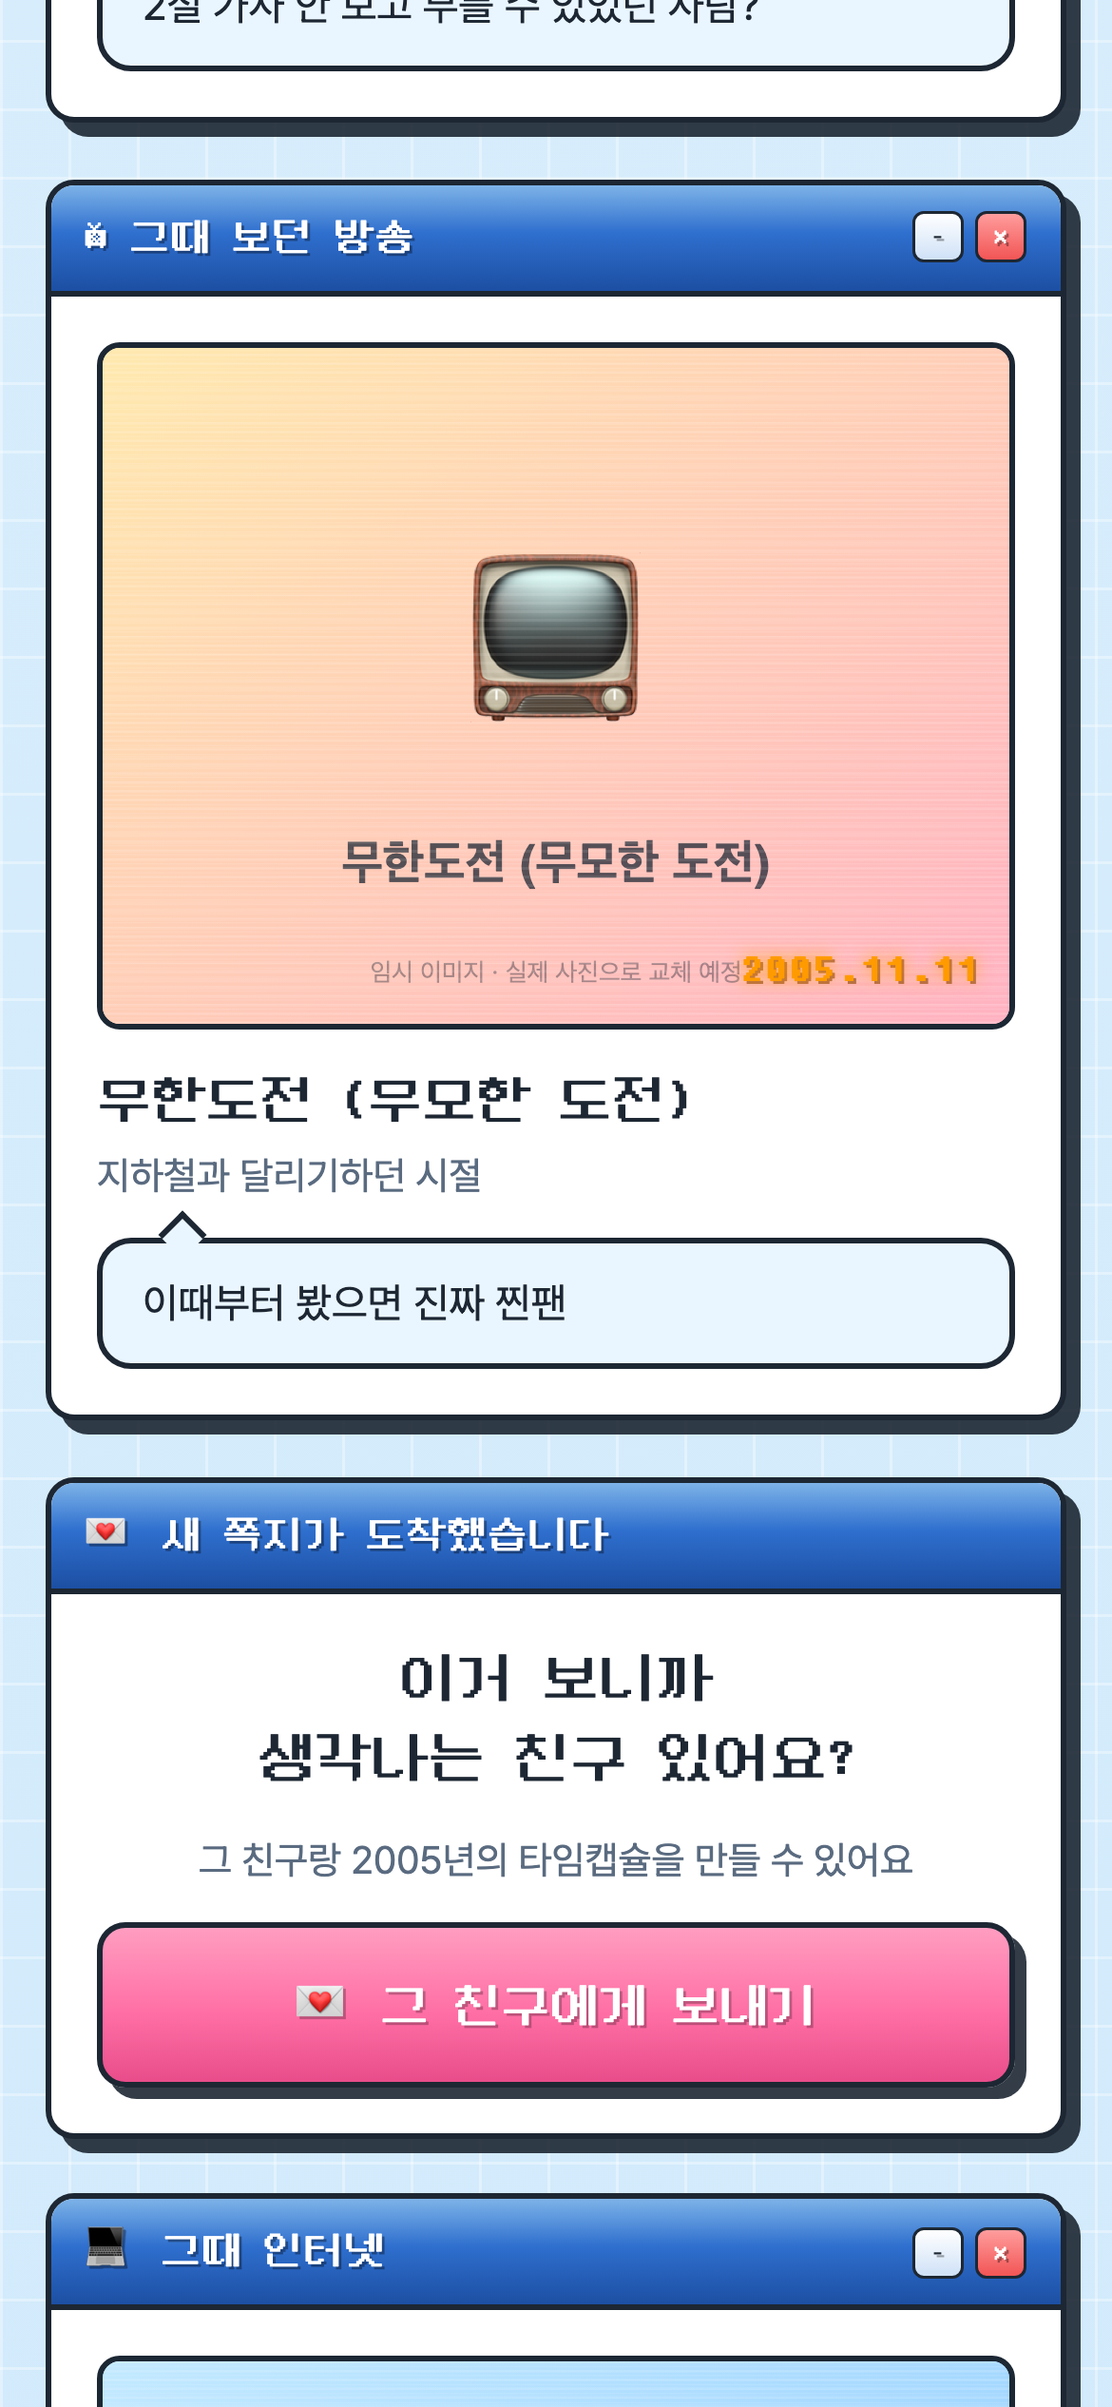
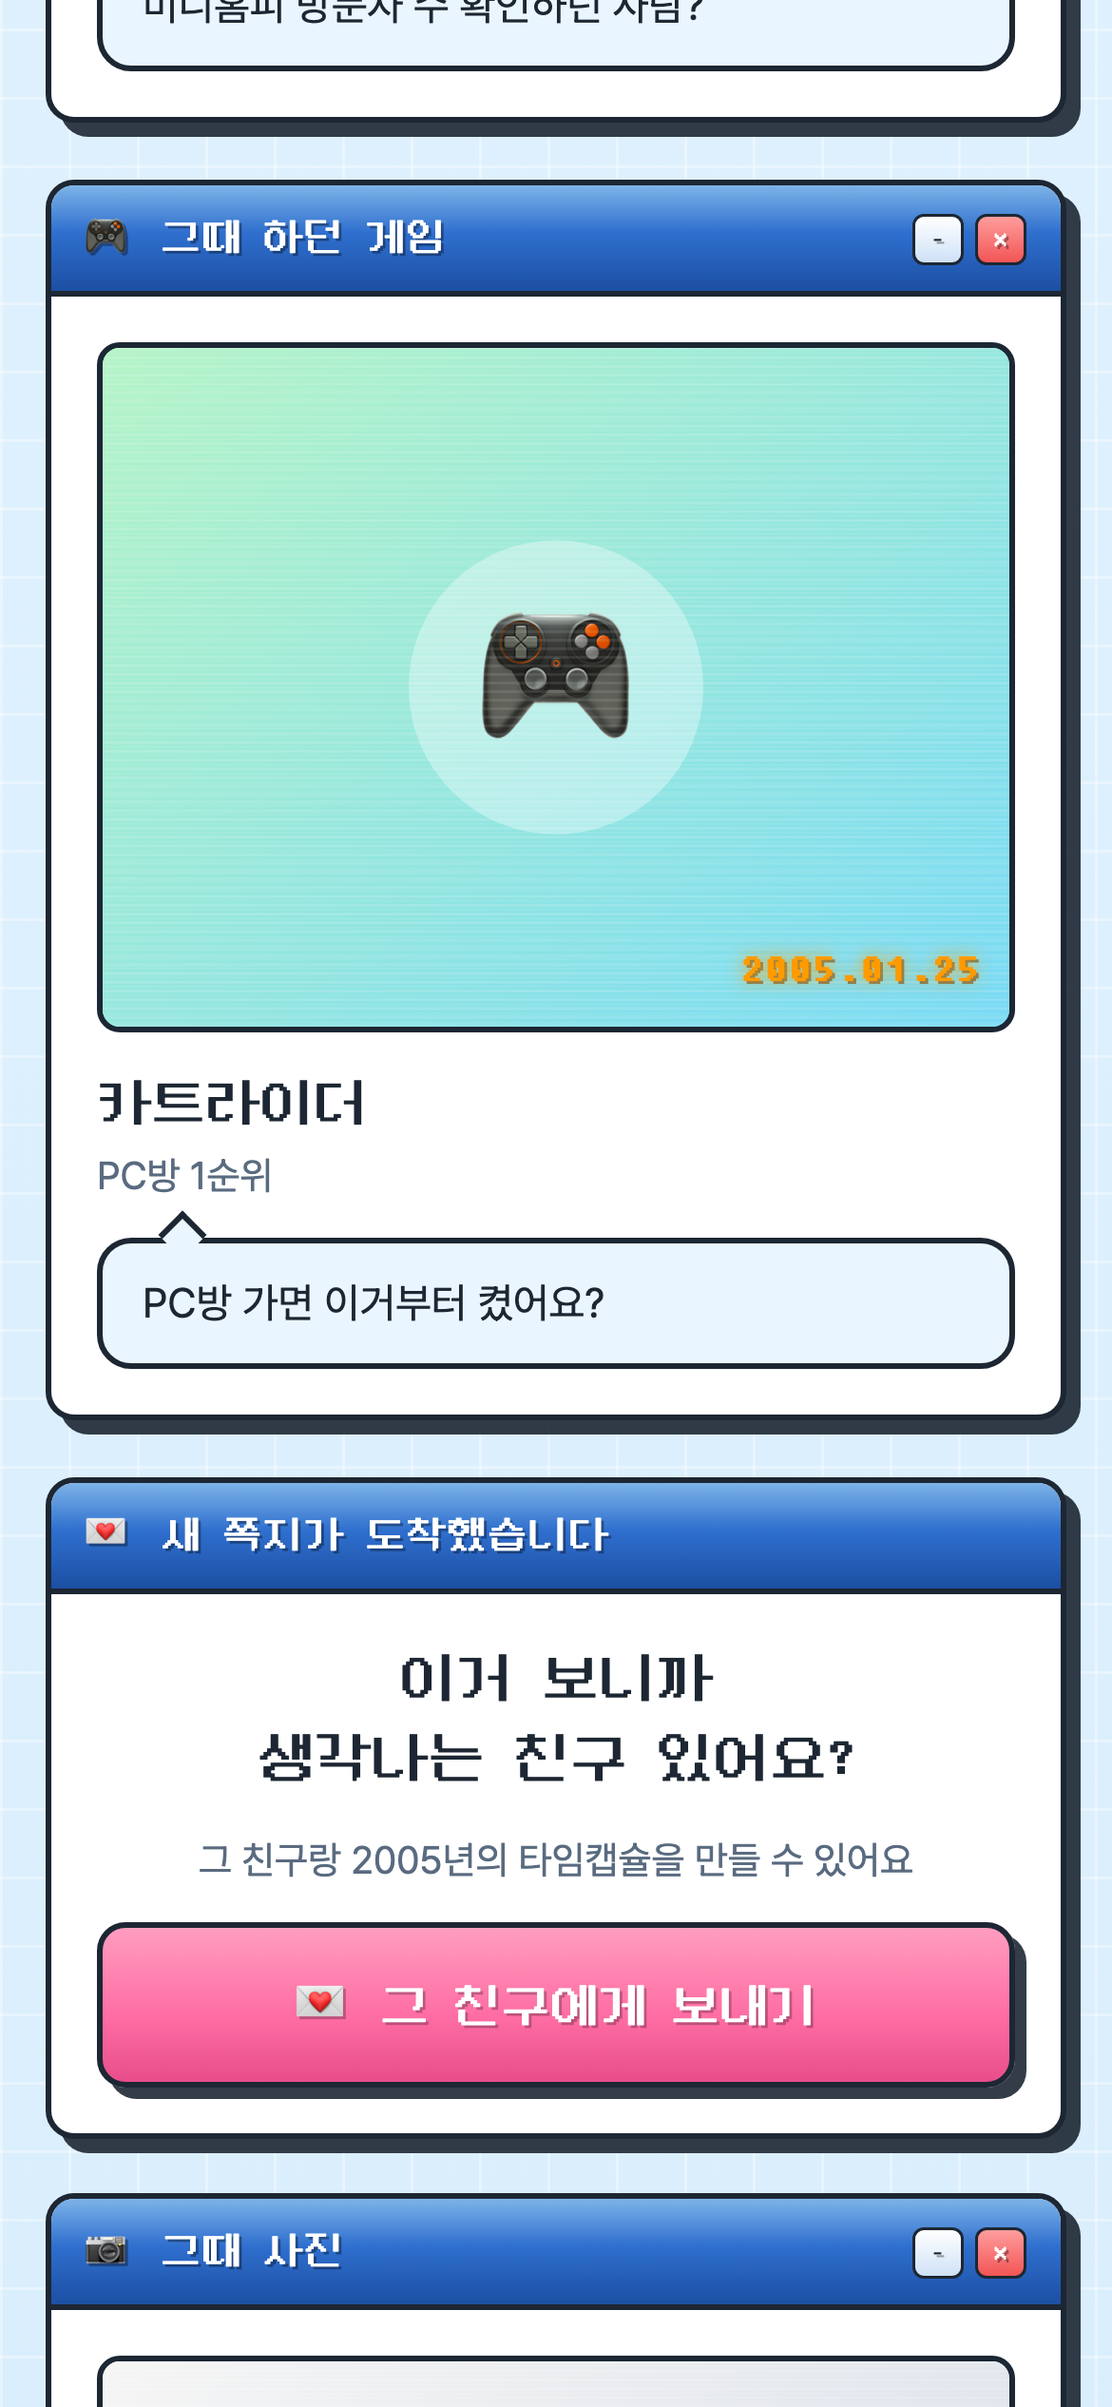
UX 1차 검수 이슈 수정 (M-1~M-5, L-2) + 2차 테스트 리포트
- M-1: 조사 처리 (혜빈이가/수진이가) — lib/josa.ts
- M-2: 홈 placeholder "예: 1992" + 대비 조정
- M-3: 초대 랜딩 줄바꿈 재배치 (orphan 제거)
- M-4: placeholder 이미지 제목 중복·개발 문구 제거
- M-5: 첫 공유 CTA를 5번째 카드 뒤로 이동
- L-2: 비활성 CTA grayscale + 그림자 축소
- 테스트 스크립트 보강, 스크린샷 전체 재캡처, 리포트 Resolved 갱신
- H-1/L-1/L-3/L-4는 의도적으로 유지 (Known Issue)

Claude-Session: https://claude.ai/code/session_01HtA1DoNRxHjgu4ARWd6viU

diff --git a/lib/josa.ts b/lib/josa.ts
@@ -1,8 +1,12 @@
-/** 이름 + 이/가 조사를 받침 유무에 따라 붙인다 */
+/**
+ * 이름 + 주격 조사를 받침 유무에 따라 붙인다.
+ * 받침 있는 이름은 호칭 접미사 '이'까지 포함해 자연스럽게 처리:
+ * 혜빈 → 혜빈이가, 수진 → 수진이가, 민수 → 민수가, 지우 → 지우가
+ */
 export function nameIga(name: string): string {
   const last = name.charCodeAt(name.length - 1);
   if (last >= 0xac00 && last <= 0xd7a3) {
-    return (last - 0xac00) % 28 > 0 ? `${name}이` : `${name}가`;
+    return (last - 0xac00) % 28 > 0 ? `${name}이가` : `${name}가`;
   }
   return `${name}이(가)`;
 }

diff --git a/app/year/[year]/page.tsx b/app/year/[year]/page.tsx
@@ -56,12 +56,13 @@ export default function YearPage() {
 
   const memories = getMemoriesForYear(year);
   const info = getYearInfo(year);
-  const midpoint = Math.ceil(memories.length / 2);
+  // 강한 추억 4~5개를 경험한 직후 첫 공유 CTA 노출 (피드가 짧으면 중간 지점)
+  const firstCtaAfter = Math.min(5, Math.ceil(memories.length / 2));
 
   const feed: ReactNode[] = [];
   memories.forEach((item, i) => {
     feed.push(<MemoryCard key={item.id} item={item} index={i} />);
-    if (i === midpoint - 1) {
+    if (i === firstCtaAfter - 1) {
       feed.push(<FriendCTA key="mid-cta" year={year} />);
     }
   });

diff --git a/app/capsule/page.tsx b/app/capsule/page.tsx
@@ -63,10 +63,10 @@ function CapsuleInviteInner() {
       <main className="page flex flex-col justify-center gap-5">
         <header className="text-center pop-in">
           <p className="badge">💌 새 쪽지 1통</p>
-          <h1 className="font-pixel text-[24px] mt-3 leading-snug">
-            {nameIga(invite.from)}
+          <h1 className="font-pixel text-[24px] mt-3 leading-snug break-keep">
+            {nameIga(invite.from)} {invite.year}년에서
             <br />
-            {invite.year}년에서 타임캡슐을 보냈어요
+            타임캡슐을 보냈어요
           </h1>
         </header>
 

diff --git a/app/globals.css b/app/globals.css
@@ -151,8 +151,16 @@ body {
 }
 
 .pixel-btn:disabled {
-  opacity: 0.45;
+  opacity: 0.55;
+  filter: grayscale(0.85);
+  box-shadow: 2px 2px 0 rgba(29, 39, 51, 0.25);
+  cursor: default;
   pointer-events: none;
+}
+
+.pixel-input::placeholder {
+  color: #a8b8c9;
+  opacity: 0.7;
 }
 
 /* ── 입력 필드 ─────────────────────────────────── */

diff --git a/app/page.tsx b/app/page.tsx
@@ -68,7 +68,7 @@ function HomeInner() {
             className="pixel-input text-center font-pixel !text-[28px] tracking-[0.2em]"
             inputMode="numeric"
             pattern="[0-9]*"
-            placeholder="1992"
+            placeholder="예: 1992"
             maxLength={4}
             value={value}
             onChange={(e) => {

diff --git a/UX_TEST_REPORT.md b/UX_TEST_REPORT.md
@@ -1,93 +1,84 @@
-# 추억.zip — UX 자동 테스트 리포트 (1차)
+# 추억.zip — UX 자동 테스트 리포트
 
-> 이 리포트는 Claude가 Playwright로 배포된 사이트를 실제 사용자처럼 조작하며 작성했습니다.
-> 스크린샷은 `screenshots/ux-test/`에 있으며, 이 단계에서는 **어떤 코드도 수정하지 않았습니다.**
-> 재실행 방법: `node scripts/ux-test.mjs`
+> Claude가 Playwright로 배포된 사이트를 실제 사용자처럼 조작하며 작성한 리포트.
+> 스크린샷: `screenshots/ux-test/` · 재실행: `node scripts/ux-test.mjs`
+>
+> **2차 (2026-08-20, 최신)**: 1차에서 발견된 M-1~M-5, L-2 수정 후 재테스트 — **자동 체크 35/35 전부 통과**
+> 1차 (2026-08-20): 최초 검수 — 33개 중 31개 통과, 이슈 10건 기록
 
 ## Test environment
 
 | 항목 | 값 |
 |---|---|
 | URL | https://2000-steel.vercel.app (프로덕션 배포본) |
-| 테스트 일시 | 2026-08-20 |
+| 최신 테스트 일시 | 2026-08-20 (수정 반영 후 2차) |
 | 자동화 도구 | Playwright 1.62.1 (headless Chromium) |
 | 디바이스 프로필 | iPhone 13 에뮬레이션 (모바일 UA, 터치, DPR 3) |
 | 기본 viewport | 390 × 844 |
-| 추가 viewport | 375×667 / 393×852 / 430×932 (레이아웃 오버플로 검사만) |
+| 추가 viewport | 375×667 / 393×852 / 430×932 (레이아웃 오버플로 검사) |
 
-제약: headless Chromium은 실제 iOS Safari(WebKit)가 아니며 `navigator.share`(네이티브 공유 시트)를 지원하지 않음. 공유는 클립보드 폴백 경로로 검증했고, 네이티브 공유 시트·실제 카카오톡 인앱 동작은 실기기 확인이 필요함.
+제약: headless Chromium은 실제 iOS Safari(WebKit)가 아니며 `navigator.share`(네이티브 공유 시트)를 지원하지 않음. 공유는 클립보드 폴백 경로로 검증. 네이티브 공유 시트·카카오톡 인앱 동작은 실기기 확인 필요.
 
 ## Tested flow
 
 1. 홈 접속 → 출생연도 `1992` 입력 → CTA 클릭
 2. 타임라인(1992년생) → 2005년 선택
-3. 2005 추억 피드 스크롤 (카테고리 연속 여부·오버플로 검사)
+3. 2005 추억 피드 스크롤 (카테고리 연속·첫 CTA 위치·오버플로 검사)
 4. 친구 공유 CTA → 타임캡슐 작성 진입
-5. 사용자 A(혜빈): 이름 + 5문항 자연어 답변 → 초대 링크 생성 → 공유(클립보드 폴백)
-6. **새 브라우저 컨텍스트**(localStorage 격리)에서 사용자 B(수진)가 초대 링크 진입 → A 답변 비노출 확인 → 5문항 답변 → 제출
-7. 결과 페이지 검증 (제목, 답변 병합, 재공유 CTA)
-8. `/?born=1992` 직접 진입 → 타임라인 자동 이동
-9. localStorage 유지(새로고침) / 삭제 후 신규 사용자 상태
-10. 전 과정 console error / page error / network 실패 수집
+5. 사용자 A(혜빈): 이름 + 5문항 답변 → 초대 링크 생성 → 공유(클립보드 폴백)
+6. **새 브라우저 컨텍스트**(localStorage 격리)에서 B(수진)가 초대 링크 진입 → A 답변 비노출 확인 → 5문항 답변 → 제출
+7. 결과 페이지 검증 (제목, 조사, 답변 병합, 재공유 CTA)
+8. `/?born=1992` 직접 진입 / localStorage 유지·삭제 / console·network 오류 수집
 
-## Passed (자동 체크 33개 중 31개 통과)
+## Passed (2차 — 자동 체크 35/35)
 
-- 홈 로딩·핵심 질문 노출·가로 오버플로 없음
-- 입력 전 CTA 비활성 → 4자리 입력 시 활성 → 타임라인 이동
-- 1992년생 타임라인: 2003~2010 표시, 나이 병기, 준비중/활성 구분, 2005 "★ 추천" 배지
-- 2005 피드: 나이 계산 정확(13살), 카드 16장에서 **동일 카테고리 연속 등장 0건**, 가로 오버플로 없음
-- 친구 공유 CTA 노출(피드 중간 + 하단)
-- 캡슐 A: 5문항 전부 입력 시에만 제출 활성, 공유 준비 화면, 링크 복사 폴백 + "복사 완료" 피드백
-- 캡슐 B: 초대 랜딩 문구, **A 답변 제출 전 비노출 확인**, 숨김 안내 문구
-- 결과: "혜빈 × 수진의 2005" 제목, A/B 답변 5쌍 모두 정상 병합, 완성 메시지, 재공유 CTA
-- `/?born=1992` 직접 진입 → 타임라인 자동 이동 (localStorage 충돌 없음)
-- localStorage: 새로고침 후 1992 유지 / 삭제 후 신규 상태 정상
-- 4개 viewport 모두 가로 오버플로 없음
+- 홈: 로딩·핵심 질문·오버플로 없음 · **placeholder "예: 1992" 확인** · 입력 전 CTA 비활성 → 4자리 입력 시 활성
+- 타임라인: 2003~2010 + 나이 병기, 준비중 구분, 2005 ★추천 배지
+- 피드: 13살 계산 정확, 동일 카테고리 연속 0건, **첫 공유 CTA가 카드 5개 뒤 등장**, 오버플로 없음
+- 캡슐 A: 전부 입력 시에만 제출 활성, 링크 복사 폴백 + 복사 완료 피드백 (초대 URL 360자)
+- 캡슐 B: 초대 랜딩 문구, A 답변 제출 전 비노출, 숨김 안내
+- 결과: "혜빈 × 수진의 2005" 제목, **조사 "혜빈이가/수진이가" 자연스러움**, 답변 5쌍 병합, 완성 메시지, 재공유 CTA
+- `/?born=1992` 자동 이동, localStorage 유지/삭제 정상
+- 4개 viewport 모두 가로 오버플로 없음, console/page error 0건
 
-자동 체크 실패 2건 중 1건("당시 나이 문구")은 테스트 스크립트의 로케이터 문제였고 스크린샷으로 정상 확인됨. 나머지 1건은 아래 M-1(조사 처리)로 이어짐.
+## Issue status
 
-## UX observations (수정하지 않고 기록만 함)
+### Resolved (2차에서 수정 및 재검증 완료)
 
-### High
+- ✅ **M-1 Resolved — 한국어 조사.** `nameIga()` 수정: 받침 있는 이름은 "혜빈이가/수진이가", 없는 이름은 "민수가/지우가". 결과 페이지·초대 랜딩 모두 반영, 자동 체크 통과. → `08-capsule-result.png`, `06-capsule-invite.png`
+- ✅ **M-2 Resolved — 홈 placeholder.** "1992" → **"예: 1992"** + placeholder 색 대비를 낮춰 실제 입력값으로 오인하지 않도록 수정. → `01-home.png`
+- ✅ **M-3 Resolved — 초대 랜딩 줄바꿈.** "혜빈이가 2005년에서 / 타임캡슐을 보냈어요" 2줄 구조로 재배치 + `break-keep`. 390/375/393/430 모두 orphan 없음. → `06-capsule-invite.png`
+- ✅ **M-4 Resolved — placeholder 이미지 겹침.** 임시 이미지에서 제목 중복 텍스트와 "임시 이미지 · 교체 예정" 개발 문구 제거. 카테고리 아이콘 + 그라데이션 + 스캔라인 + 날짜 스탬프만 유지. → `05-share-cta.png`
+- ✅ **M-5 Resolved — 첫 공유 CTA 위치.** 8번째 카드 뒤 → **5번째 카드 뒤**로 앞당김 (강한 추억 4~5개 경험 직후). 피드 마지막 CTA는 유지 (중간+마지막 2개 구조). → `05-share-cta.png`
+- ✅ **L-2 Resolved — CTA 비활성 상태.** 비활성 시 grayscale + 그림자 축소 + cursor 기본값으로 "눌리지 않는 느낌" 강화. 활성 시 기존 핑크+하드섀도 그대로.
 
-- **H-1. A(캡슐을 만든 사람)는 결과를 자동으로 볼 수 없음.** 타임캡슐이 URL 인코딩 기반이라 B가 완성한 결과 링크를 A에게 다시 보내줘야만 A가 결과를 봄. 결과 화면에 "혜빈님에게도 결과를 보내주세요" 안내는 있으나, B가 재공유하지 않으면 A의 경험은 "보내고 끝"으로 끊김. 바이럴 루프의 핵심 구간이므로 기획 검토 필요. (구조적 이슈 — 서버 저장 전환 시 해결 가능)
+### Known Issue — intentionally deferred
 
-### Medium
-
-- **M-1. 한국어 조사 처리 어색.** 결과 페이지 라벨이 "혜빈**이** 기억하는 첫 만남", "수진**이** 기억하는 우리의 노래"로 표시됨. 자연스러운 표현은 "혜빈**이가**/수진**이가**"임 (받침 있는 이름에 '이'만 붙고 주격조사 '가'가 빠짐). `lib/josa.ts`의 `nameIga()` 로직. → `08-capsule-result.png`
-- **M-2. 홈 입력창의 placeholder "1992"가 실제 입력된 값처럼 보임.** 큰 픽셀 폰트의 회색 1992가 이미 입력된 것으로 오인될 수 있어, 첫 방문자가 CTA만 누르고 반응이 없다고 느낄 가능성. → `01-home.png`
-- **M-3. 초대 랜딩 제목 줄바꿈 어색.** "혜빈이 / 2005년에서 타임캡슐을 보냈어 / 요" — 마지막 글자 "요"만 다음 줄로 떨어짐 (390px 기준). → `06-capsule-invite.png`
-- **M-4. placeholder 이미지 내부 텍스트 중복·겹침.** 임시 이미지 안의 제목 텍스트가 카드 제목과 중복되고, "임시 이미지 · 실제 사진으로 교체 예정" 문구가 주황 날짜 스탬프와 겹쳐 "교체 예정2005.01.21"처럼 붙어 보임. 실제 사진 교체 시 자연 해소되지만 현재 상태로 사용자 테스트를 하면 인상을 해칠 수 있음. → `05-share-cta.png`
-- **M-5. 중간 공유 CTA 도달까지 스크롤이 김.** 카드 8장(BGM 포함 화면 약 9~10개 분량)을 지나야 첫 CTA가 나옴. "친구 생각날 때 바로 보내는" 감정 타이밍과 맞는지 기획 검토 필요. → `05-share-cta.png`
-
-### Low
-
-- **L-1. 결과 페이지 카드 순차 등장 애니메이션(총 ~1초).** 로드 직후 빠르게 스크롤하면 아직 등장 전(투명)인 카드 구간이 잠깐 보일 수 있음. 자동화 캡처에서 재현됨(재캡처로 확인, 1초 후 완전 정상).
-- **L-2. 홈 CTA의 비활성 상태 구분이 약함.** 비활성(45% 투명 핑크)과 활성의 차이가 크지 않아 "눌러도 되는지"가 흐림. M-2와 결합 시 혼란 가능.
-- **L-3. BGM 플레이어의 재생바가 장식용(0:00 고정).** 실제 재생 진행과 무관해 눌러보는 사용자가 있을 수 있음.
-- **L-4. 타임라인에서 준비중 연도가 절반 이상(1992년생 기준 8칸 중 3칸).** 데이터 확장 전까지는 자연스러운 상태이나 첫인상에 "비어 보이는" 느낌을 줄 수 있음.
+- ⏸ **H-1 — A가 결과를 자동으로 못 받음.** URL 기반 MVP 구조상 B가 결과를 재공유해야 A가 봄. 서버/DB 도입 없이 현 구조 유지 결정. 서버 저장 전환 시 해결 예정.
+- ⏸ **L-1 — 결과 카드 순차 등장 애니메이션(~1초).** 타임캡슐 개봉 연출로 의도적 유지. 레이아웃 깨짐 없음 재확인(2차).
+- ⏸ **L-3 — BGM 재생바 장식용(0:00 고정).** 음원 연동은 별도 단계에서 검토.
+- ⏸ **L-4 — 준비중 연도 다수 노출.** 데이터 확장 전까지 유지.
 
 ## Technical issues
 
-- **console error: 0건 / page error(uncaught exception): 0건 / hydration error: 0건** — 전체 플로우에서 깨끗함
-- **network 실패 3건: 모두 무해.** `/year/2006?_rsc=…`, `/year/2007?_rsc=…` ERR_ABORTED — Next.js Link prefetch가 페이지 이동으로 중단된 것 (사용자 영향 없음)
-- 404 asset / 이미지 로드 실패: 0건 (폰트·placeholder SVG·OG 모두 정상)
-- `navigator.share`: headless Chromium 미지원 → 클립보드 폴백 정상 동작 확인. **실기기(iOS Safari/카카오톡 인앱)의 네이티브 공유 시트는 별도 확인 필요**
-- 초대 URL 길이: **360자** (한국어 답변 5개 포함) — 카카오톡 전송 가능 범위
+- console error / page error / hydration error: **0건** (1·2차 동일)
+- network: `/year/*?_rsc=…` ERR_ABORTED 수 건 — Next.js Link prefetch가 페이지 이동으로 중단된 것, 사용자 영향 없음
+- 404 asset / 이미지 로드 실패: 0건
+- `navigator.share`: headless 미지원 → 클립보드 폴백 정상. 실기기 공유 시트는 별도 확인 필요
 
-## Screenshots (`screenshots/ux-test/`)
+## Screenshots (`screenshots/ux-test/` — 2차 수정 반영본으로 전체 재캡처)
 
 | 파일 | 내용 |
 |---|---|
-| `01-home.png` | 홈 — 출생연도 입력 (placeholder 1992 상태) |
-| `02-timeline-1992.png` | 1992년생 타임라인 (2005 ★추천 배지, 준비중 구분) |
-| `03-2005-feed-top.png` | 2005 피드 상단 — 연도/나이 헤더 + BGM 플레이어 + 첫 카드 |
+| `01-home.png` | 홈 — "예: 1992" placeholder + 비활성 CTA (M-2/L-2 반영) |
+| `02-timeline-1992.png` | 1992년생 타임라인 (2005 ★추천, 준비중 구분) |
+| `03-2005-feed-top.png` | 2005 피드 상단 — 헤더 + BGM 플레이어 + 첫 카드 |
 | `04-2005-feed-middle.png` | 피드 중간 스크롤 지점 |
-| `05-share-cta.png` | 친구 공유 CTA 직전~노출 구간 (M-4 겹침도 이 화면에서 확인) |
-| `06-capsule-invite.png` | B의 초대 랜딩 (M-3 줄바꿈 확인 가능) |
-| `07-capsule-form.png` | B의 답변 작성 화면 (5문항 입력 완료 상태) |
-| `08-capsule-result.png` | 결과 전체 (fullPage, 애니메이션 완료 후 재캡처) — M-1 조사 확인 가능 |
+| `05-share-cta.png` | 5번째 카드(카트라이더) 직후의 첫 공유 CTA (M-4/M-5 반영) |
+| `06-capsule-invite.png` | B의 초대 랜딩 — "혜빈이가 2005년에서 / 타임캡슐을 보냈어요" (M-1/M-3 반영) |
+| `07-capsule-form.png` | B의 답변 작성 화면 |
+| `08-capsule-result.png` | 결과 전체 (fullPage) — "혜빈이가/수진이가" 조사 확인 (M-1 반영) |
 
-## 다음 단계 제안 (수정은 하지 않음)
+## 다음 검토 후보 (수정하지 않고 대기)
 
-우선순위 후보: H-1(결과 전달 루프)은 기획 결정 필요, M-1(조사)·M-3(줄바꿈)·M-4(placeholder 겹침)는 저비용 수정. 실기기에서 공유 시트·BGM 재생(iOS 정책상 두 번 탭)·카카오톡 인앱 진입은 사람이 직접 확인 권장.
+H-1(결과 전달 루프)의 기획 방향, 실기기(iOS Safari/카카오톡 인앱)에서 공유 시트·BGM 재생 확인, 콘텐츠 밀도(연도 확장)는 ChatGPT 검수 후 결정.
